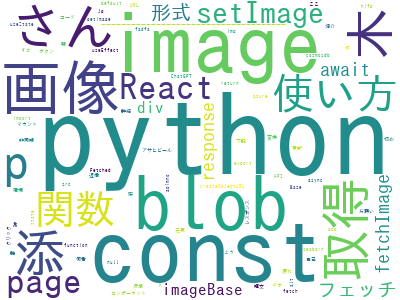
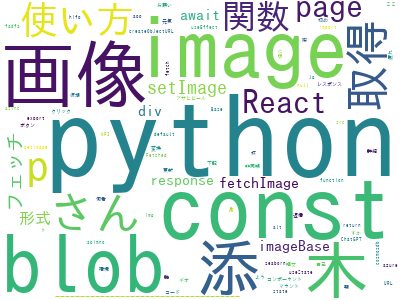
wordcloudの追加

diff --git a/plot/views.py b/plot/views.py
@@ -1,6 +1,7 @@
-from django.views.generic import TemplateView  # ❶
+from django.views.generic import TemplateView
+from django.conf import settings
 
-from plot.functions import CosmosDBClient, unix_timestamp_to_month
+from plot.functions import CosmosDBClient, unix_timestamp_to_month, generate_and_save_wordcloud
 from plot.graphs import line_charts, bar_chart
 
 from dotenv import load_dotenv
@@ -8,21 +9,10 @@ import os
 
 from collections import defaultdict
 
-from janome.tokenizer import Tokenizer
-from janome.charfilter import *
-from janome.tokenfilter import *
-from janome.analyzer import Analyzer
-
 import pandas as pd
 import collections
-from wordcloud import WordCloud
 
 
-from django.core.files.storage import default_storage
-from django.core.files.base import ContentFile
-from io import BytesIO
-from django.conf import settings
-from django.urls import reverse
 
 # WordCloudの画像を保存する
 def save_wordcloud_image(wordcloud):
@@ -55,12 +45,14 @@ container_name = os.getenv("CONTAINER_NAME")
 db_client = CosmosDBClient(endpoint, key, database_name, container_name)
 items = db_client.fetch_items("SELECT * FROM c")
 
+#月別に集計
 for item in items:
     ts = item.get('_ts')
     if ts:
         month_year = unix_timestamp_to_month(ts)
         monthly_summary[month_year] += 1
 
+#wordcloudの作成
 question_list =[]
 
 for item in items:
@@ -69,29 +61,7 @@ for item in items:
         question = messages[0]["content"]
         question_list.append(question)
 
-t = Tokenizer()
-results = []
-for s in question_list: 
-    tokens = list(t.tokenize(s, wakati=True))
-    a = Analyzer(token_filters=[CompoundNounFilter()])
-    result = [token.base_form for token in t.tokenize(s) if token.part_of_speech.split(',')[0] in ['名詞']]  # 全角スペースを削除 # リストに追加 results.extend(result)
-    results.extend(result) 
-
-# wordcloud
-#日本語のフォントパス
-font_path = 'ipag.ttc'
-text = ' '.join(results) # 区切り文字を「・」にして文字列に変換
-# 単語の最大表示数は500に設定
-wordcloud = WordCloud(
-    background_color='white',
-    font_path=font_path,
-    width=400,
-    height=300,
-    max_words=500
-).generate(text)
-
-wordcloud_image_path = save_wordcloud_image(wordcloud)
-print(wordcloud_image_path)
+wordcloud_image_path = generate_and_save_wordcloud(question_list)
 
 class ChartsView(TemplateView):  # ❶
     template_name = "plot.html"

diff --git a/plot/functions.py b/plot/functions.py
@@ -1,6 +1,18 @@
 from azure.cosmos import CosmosClient, exceptions
 from datetime import datetime
 
+from janome.tokenizer import Tokenizer
+from janome.charfilter import *
+from janome.tokenfilter import CompoundNounFilter
+from janome.analyzer import Analyzer
+
+from io import BytesIO
+from wordcloud import WordCloud
+from django.conf import settings
+
+import os
+
+
 class CosmosDBClient:
     def __init__(self, endpoint, key, database_name, container_name):
         self.endpoint = endpoint
@@ -31,3 +43,47 @@ def unix_timestamp_to_month(ts):
     """
     date = datetime.fromtimestamp(ts)
     return date.strftime('%Y-%m')  # 'YYYY-MM'形式
+
+# WordCloudの画像を保存する
+def save_wordcloud_image(wordcloud):
+    # BytesIOオブジェクトに画像を保存
+    buffer = BytesIO()
+    wordcloud.to_image().save(buffer, format='PNG')
+    image_content = buffer.getvalue()
+
+    # Djangoのファイルストレージに保存
+    image_file_name = 'wordcloud_image.png'
+    file_path = os.path.join(settings.MEDIA_ROOT, image_file_name)
+
+    # ファイルに保存
+    with open(file_path, 'wb') as f:
+        f.write(image_content)
+
+    return file_path
+
+def generate_and_save_wordcloud(question_list, font_path='ipag.ttc', width=400, height=300, max_words=500):
+    # WordCloudを生成
+    t = Tokenizer()
+    results = []
+    for s in question_list: 
+        tokens = list(t.tokenize(s, wakati=True))
+        a = Analyzer(token_filters=[CompoundNounFilter()])
+        #名刺のみ抽出
+        result = [token.base_form for token in t.tokenize(s) if token.part_of_speech.split(',')[0] in ['名詞']]  # 全角スペースを削除 
+        results.extend(result) 
+    
+    text = ' '.join(results)
+
+    wordcloud = WordCloud(
+        background_color='white',
+        font_path=font_path,
+        width=width,
+        height=height,
+        max_words=max_words
+    ).generate(text)
+
+    wordcloud_image_path = save_wordcloud_image(wordcloud)
+
+
+    return wordcloud_image_path
+
